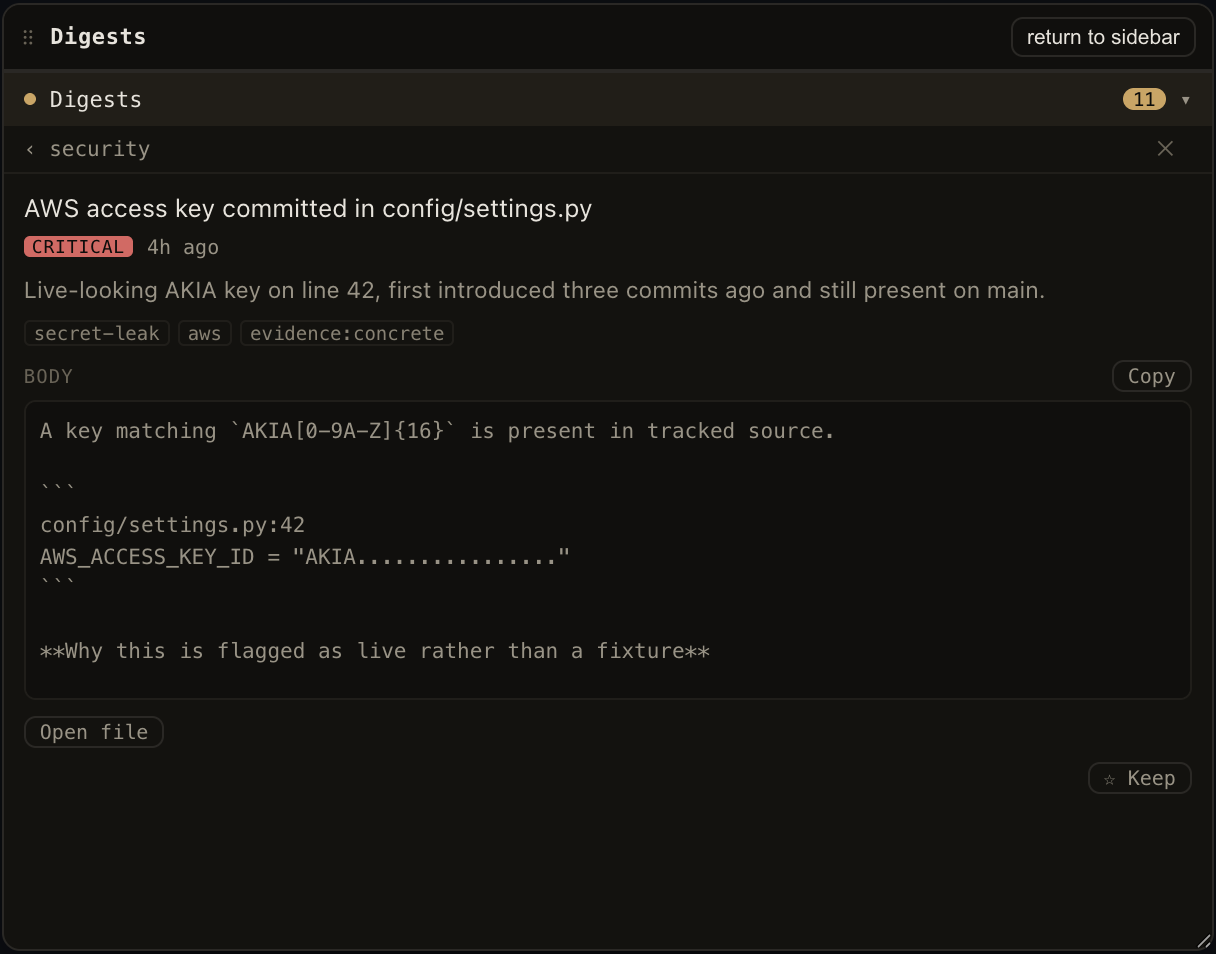
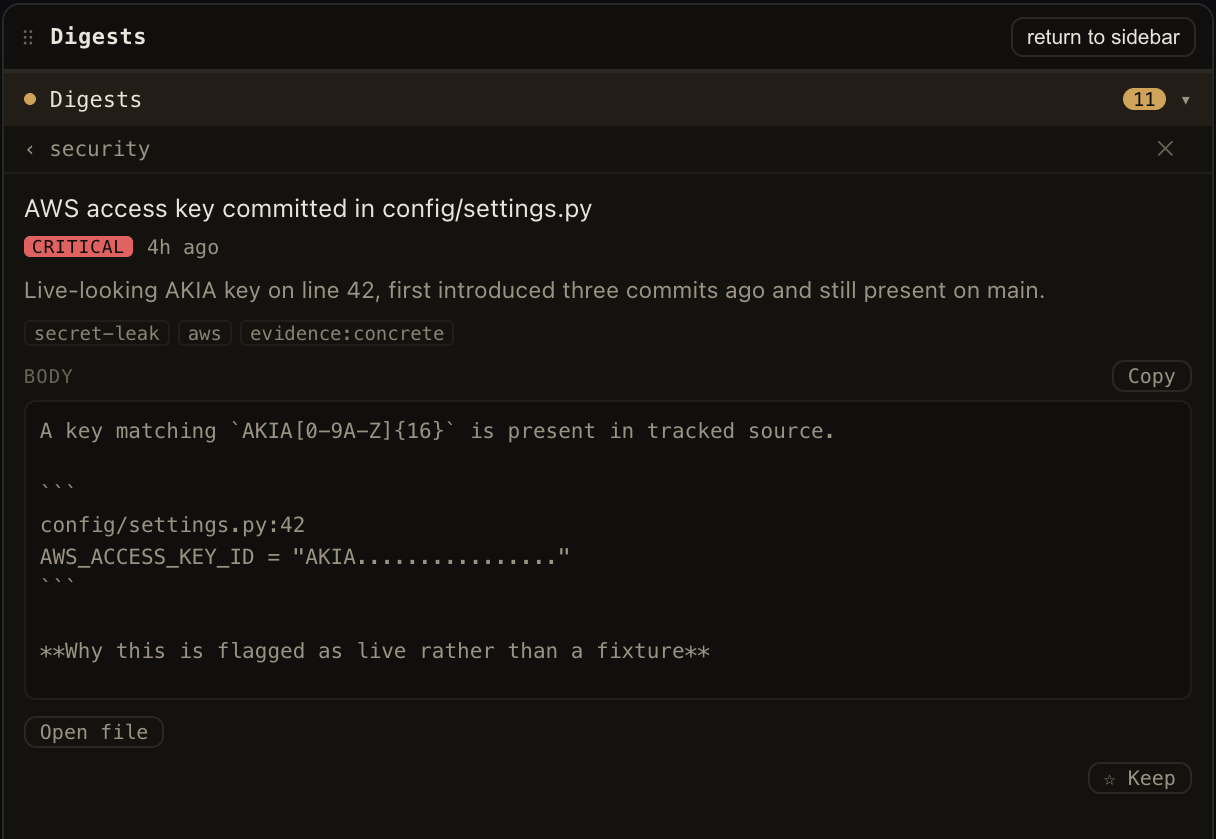
updater: say which install you chose, and stop calling a dismiss a cancel
'Install on quit' looked like it was installing now. Both choices download first —
only what happens afterwards differs — but the progress line said 'Downloading… 40%'
either way, so the natural read was that the app was about to restart. The mode now
rides along with the event and the line says which it is.

Worse, the dismiss button stayed live during the download and still said 'Remind me
later'. It dismissed the window; it did not stop the download, and it did not disarm
autoInstallOnAppQuit — so the update installed on quit anyway. That is a button whose
label promises the opposite of what it does. It now reads 'Hide' while downloading and
'Close' once staged, and the staged message says outright that closing the window won't
change anything.

'Install now' was also disabled once staged, which is backwards: the bytes are already
local at that point, so it is just a quit-and-relaunch. It stranded you with no way to
change your mind short of quitting the app by hand. Enabled once the download finishes;
still disabled during it.

Also retires the 'ships no producers, deliberately' line in the README and the digests
doc, per your correction on the marketing stub — prebuilt producers may ship. The
replacement says the panel is empty until something writes to the directory, which is
true either way.

diff --git a/src/renderer/src/App.tsx b/src/renderer/src/App.tsx
@@ -553,6 +553,9 @@ export function App() {
   const [postUpdate, setPostUpdate] = useState<UpdatePayload | null>(null)
   const [updateDl, setUpdateDl] = useState<{
     state: 'downloading' | 'staged' | 'error'
+    // Which button started this. Downloading looks identical either way, so without
+    // it "Install on quit" reads as though the app is about to restart.
+    mode?: 'now' | 'quit'
     percent?: number
     message?: string
   } | null>(null)
@@ -623,13 +626,15 @@ export function App() {
       setUpdateAvail(p as UpdatePayload)
     })
     const offNone = window.cc.onUpdateNone(() => showFlash('You are at the latest release.'))
-    const offDownloading = window.cc.onUpdateDownloading(() =>
-      setUpdateDl({ state: 'downloading', percent: 0 }),
+    const offDownloading = window.cc.onUpdateDownloading((p) =>
+      setUpdateDl({ state: 'downloading', percent: 0, mode: p?.mode ?? 'now' }),
     )
     const offProgress = window.cc.onUpdateProgress((p) =>
-      setUpdateDl({ state: 'downloading', percent: p.percent }),
+      setUpdateDl((cur) => ({ state: 'downloading', percent: p.percent, mode: cur?.mode })),
     )
-    const offStaged = window.cc.onUpdateStaged(() => setUpdateDl({ state: 'staged' }))
+    const offStaged = window.cc.onUpdateStaged(() =>
+      setUpdateDl((cur) => ({ state: 'staged', mode: cur?.mode })),
+    )
     const offError = window.cc.onUpdateError((p) =>
       setUpdateDl({ state: 'error', message: p.message }),
     )
@@ -5308,7 +5313,7 @@ function UpdateAvailableModal({
   onRemindLater,
 }: {
   payload: UpdatePayload
-  dl: { state: 'downloading' | 'staged' | 'error'; percent?: number; message?: string } | null
+  dl: { state: 'downloading' | 'staged' | 'error'; percent?: number; message?: string; mode?: 'now' | 'quit' } | null
   onInstall: () => void
   onInstallOnQuit: () => void
   onSkip: () => void
@@ -5330,11 +5335,22 @@ function UpdateAvailableModal({
             <div className="upbar">
               <div className="upbar-fill" style={{ width: `${dl.percent ?? 0}%` }} />
             </div>
-            <div className="upprogress-l">Downloading… {dl.percent ?? 0}%</div>
+            {/* Both choices have to download first — only what happens AFTERWARDS
+                differs. Saying so is the difference between "installing on quit" and
+                what it used to look like, which was the app about to restart. */}
+            <div className="upprogress-l">
+              Downloading… {dl.percent ?? 0}%
+              {dl.mode === 'quit'
+                ? ' — the app stays open; it installs when you quit.'
+                : ' — the app will restart when this finishes.'}
+            </div>
           </div>
         )}
         {dl?.state === 'staged' && (
-          <div className="upstaged">Update downloaded — it will install when you quit the app.</div>
+          <div className="upstaged">
+            Downloaded and ready. It installs when you quit — closing this window won’t change
+            that.
+          </div>
         )}
         {dl?.state === 'error' && (
           <div className="uperror">Update failed: {dl.message}</div>
@@ -5346,16 +5362,33 @@ function UpdateAvailableModal({
             </button>
           )}
           <div className="grow" />
-          <button className="rbtn ghost" onClick={onRemindLater}>
-            Remind me later
+          {/* Once the bytes are down this dismisses a window, it does NOT call the
+              update off — so it must not keep saying "remind me later". */}
+          <button
+            className="rbtn ghost"
+            onClick={onRemindLater}
+            title={
+              dl && dl.state !== 'error'
+                ? 'Closes this window. The update carries on in the background.'
+                : undefined
+            }
+          >
+            {dl?.state === 'staged' ? 'Close' : dl?.state === 'downloading' ? 'Hide' : 'Remind me later'}
           </button>
-          <button className="rbtn" onClick={onInstallOnQuit} disabled={!!dl && dl.state !== 'error'}>
-            Install on quit
+          <button
+            className="rbtn"
+            onClick={onInstallOnQuit}
+            disabled={!!dl && dl.state !== 'error'}
+          >
+            {dl?.state === 'staged' ? 'Will install on quit ✓' : 'Install on quit'}
           </button>
+          {/* Enabled once staged: the download is already local, so this is just a
+              quit-and-relaunch. Disabling it stranded you with no way to say "actually,
+              do it now" without quitting the app by hand. */}
           <button
             className="rbtn primary"
             onClick={onInstall}
-            disabled={!!dl && dl.state !== 'error'}
+            disabled={!!dl && dl.state === 'downloading'}
           >
             Install now
           </button>

diff --git a/src/preload/index.ts b/src/preload/index.ts
@@ -36,7 +36,7 @@ contextBridge.exposeInMainWorld('cc', {
   updateJustUpdated: () => ipcRenderer.invoke('update:justUpdated'),
   onUpdateAvailable: (cb: (p: unknown) => void) => sub('update:available', cb),
   onUpdateNone: (cb: () => void) => sub('update:none', cb),
-  onUpdateDownloading: (cb: () => void) => sub('update:downloading', cb),
+  onUpdateDownloading: (cb: (p: { mode: 'now' | 'quit' }) => void) => sub('update:downloading', cb),
   onUpdateProgress: (cb: (p: { percent: number }) => void) => sub('update:progress', cb),
   onUpdateStaged: (cb: () => void) => sub('update:staged', cb),
   onUpdateError: (cb: (p: { message: string }) => void) => sub('update:error', cb),

diff --git a/src/renderer/src/global.d.ts b/src/renderer/src/global.d.ts
@@ -49,7 +49,7 @@ declare global {
       updateJustUpdated: () => Promise<UpdatePayload | null>
       onUpdateAvailable: (cb: (p: UpdatePayload) => void) => () => void
       onUpdateNone: (cb: () => void) => () => void
-      onUpdateDownloading: (cb: () => void) => () => void
+      onUpdateDownloading: (cb: (p: { mode: 'now' | 'quit' }) => void) => () => void
       onUpdateProgress: (cb: (p: { percent: number }) => void) => () => void
       onUpdateStaged: (cb: () => void) => () => void
       onUpdateError: (cb: (p: { message: string }) => void) => () => void

diff --git a/src/main/updater.ts b/src/main/updater.ts
@@ -151,7 +151,7 @@ export function downloadAndInstall(mode: 'now' | 'quit'): void {
   if (!app.isPackaged) return
   pendingInstall = mode
   autoUpdater.autoInstallOnAppQuit = mode === 'quit'
-  send('update:downloading')
+  send('update:downloading', { mode }) // the UI must distinguish 'will restart' from 'will stage'
   void autoUpdater.downloadUpdate().catch((e) => {
     send('update:error', { message: (e as Error)?.message ?? 'download failed' })
   })

diff --git a/README.md b/README.md
@@ -228,11 +228,11 @@ Actions on an item are hints, not commands. The app reveals a path in Finder and
 anything it doesn't recognize as inert — these files are written by unattended jobs, and
 nothing in one is ever executed.
 
-**This one costs you an afternoon before it does anything.** The app ships no producers,
-because the whole point is that it doesn't need to know what your signal means. What it
-gives you back is a place for all of it that you didn't have to build a UI for.
-[How to write one](docs/digests.md) — the contract is a JSON file in a directory, in
-whatever language you like.
+**The panel is empty until something is writing to that directory.** It can't invent a
+source for you — not knowing what your signal means is the whole reason it works for any
+signal at all. What it gives you back is a place for all of it that you didn't have to
+build a UI for. [How to write a producer](docs/digests.md) — the contract is a JSON file
+in a directory, in whatever language you like.
 
 ---
 

diff --git a/docs/digests.md b/docs/digests.md
@@ -5,10 +5,11 @@ them. It does not fetch anything, schedule anything, or know what any of your si
 mean. Something else decides what deserves your attention and writes it to disk; this
 reads that directory.
 
-The app ships no producers. That is the honest cost of the design: the panel is empty
-until you write something to fill it. What you get in exchange is that a producer you
-write in an afternoon, in any language, appears in the panel with no change to the app
-— including one written long after this was.
+The panel is empty until something is writing to that directory. That is the honest cost
+of the design: it can't invent a source, because not knowing what your signal means is
+exactly what lets it work for any signal at all. What you get in exchange is that a
+producer you write in an afternoon, in any language, appears in the panel with no change
+to the app — including one written long after this was.
 
 ---
 
